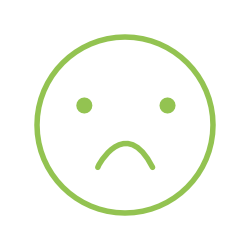
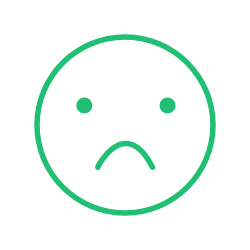
Fine-tune functionality & minor style adjustments

diff --git a/css/style.css b/css/style.css
@@ -9,7 +9,7 @@
   --secondary-background-color: #21bf73;
   --tertiary-background-color: #ffffff;
   --primary-color: #4c4c4c;
-  --secondary-color: #fd5e53;
+  --secondary-color: #a5a5a5;
   --tertiary-color: #b0eacd;
 }
 
@@ -137,7 +137,7 @@ header {
 header input {
   width: 60%;
   padding: 0.5rem 1rem;
-  border: 1px solid var(--tertiary-color);
+  border: 1px solid rgba(165, 165, 165, 0.3);
   border-top-left-radius: 25px;
   border-bottom-left-radius: 25px;
   border-top-right-radius: 0;
@@ -147,12 +147,13 @@ header input {
   -moz-appearance: none;
   -webkit-appearance: none;
   position: relative;
+  color: var(--primary-color);
 }
 
-/* header ::placeholder {
-  color: var(--secondary-background-color);
+header ::placeholder {
+  color: var(--secondary-color);
   opacity: 1;
-} */
+}
 
 header input:focus {
   outline: none;
@@ -172,8 +173,8 @@ header input:focus {
 
 .btn-search {
   background-color: var(--tertiary-background-color);
-  color: var(--secondary-background-color);
-  border: 1px solid var(--tertiary-color);
+  color: var(--primary-color);
+  border: 1px solid rgba(165, 165, 165, 0.3);
   padding: 0.5rem 0.6rem;
   border-left: none;
   border-top-right-radius: 25px;
@@ -206,9 +207,9 @@ header input:focus {
 
 .fav-container h3::after {
   content: "";
-  border-bottom: 3px solid var(--tertiary-color);
-  border-radius: 2px;
-  width: 10%;
+  border-bottom: 1.5px solid var(--primary-background-color);
+  border-radius: 100%;
+  width: 15%;
   position: absolute;
   bottom: 0;
   left: 50%;
@@ -278,7 +279,7 @@ header input:focus {
 }
 
 .no-results-for-search {
-  color: var(--secondary-background-color);
+  color: var(--primary-color);
   text-align: center;
   padding: 8.49vh 7.26vw;
 }
@@ -286,6 +287,10 @@ header input:focus {
 .no-results-for-search-img {
   width: 50%;
   height: auto;
+}
+
+.search-word {
+  color: var(--secondary-background-color);
 }
 
 .drink {
@@ -463,13 +468,21 @@ header input:focus {
 
 /* ***** Copyright info ***** */
 .copy {
-  color: var(--secondary-background-color);
+  color: var(--secondary-color);
   text-align: center;
-  font-size: 0.75rem;
+  font-size: 0.65rem;
   font-weight: 400;
   margin: 0;
   padding: 10vh 0 1vh;
   padding: 1vh 0 10px;
+}
+
+.copy .fa-heart {
+  color: var(--secondary-background-color);
+}
+
+.dev-name {
+  font-size: 0.75rem;
 }
 
 /* ********** MEDIA QUERIES ********* */

diff --git a/js/app.js b/js/app.js
@@ -65,14 +65,19 @@ async function getDrinkById(id) {
 
 // Fetch drinks from API based on a specific search term
 async function getDrinksBySearch(term) {
-  const response = await fetch(
-    `https://www.thecocktaildb.com/api/json/v1/1/filter.php?i=${term}`
-  );
+  try {
+    const response = await fetch(
+      `https://www.thecocktaildb.com/api/json/v1/1/filter.php?i=${term}`
+    );
 
-  const drinkData = await response.json();
-  const drinks = drinkData.drinks;
+    const drinkData = await response.json();
 
-  return drinks;
+    const drinks = drinkData.drinks;
+
+    return drinks;
+  } catch {
+    showErrorMessage();
+  }
 }
 
 // Inject drink info into user interface
@@ -332,7 +337,7 @@ async function searchForDrinks() {
       getDrinkById(drink.idDrink).then(addDrink);
       drinksElement.classList.remove("no-results-for-search");
     });
-  } else {
+  } /*else {
     // displace search results message
     drinksElement.innerHTML = `
 	<img class="no-results-for-search-img" src="./img/sad_face.png">
@@ -342,7 +347,20 @@ async function searchForDrinks() {
 
     // center search results message
     drinksElement.style.justifyContent = "center";
-  }
+  }*/
+}
+
+// Show error message
+function showErrorMessage() {
+  // displace search results message
+  drinksElement.innerHTML = `
+    <img class="no-results-for-search-img" src="./img/sad_face.png">
+    <p>No search results for <span class="search-word">"${searchTerm.value}"</span>, try searching for a different drink or ingredient.</p>
+    `;
+  drinksElement.classList.add("no-results-for-search");
+
+  // center search results message
+  drinksElement.style.justifyContent = "center";
 }
 
 // Show clear search button

diff --git a/index.html b/index.html
@@ -79,7 +79,8 @@
 
       <!-- === Credits === -->
       <p class="copy">
-        <small>Made with <i class="fas fa-heart"></i> by George Mapaya.</small>
+        Made with <i class="fas fa-heart"></i> by
+        <span class="dev-name">George Mapaya</span>.
       </p>
     </div>
     <!-- *** SCRIPTS *** -->
